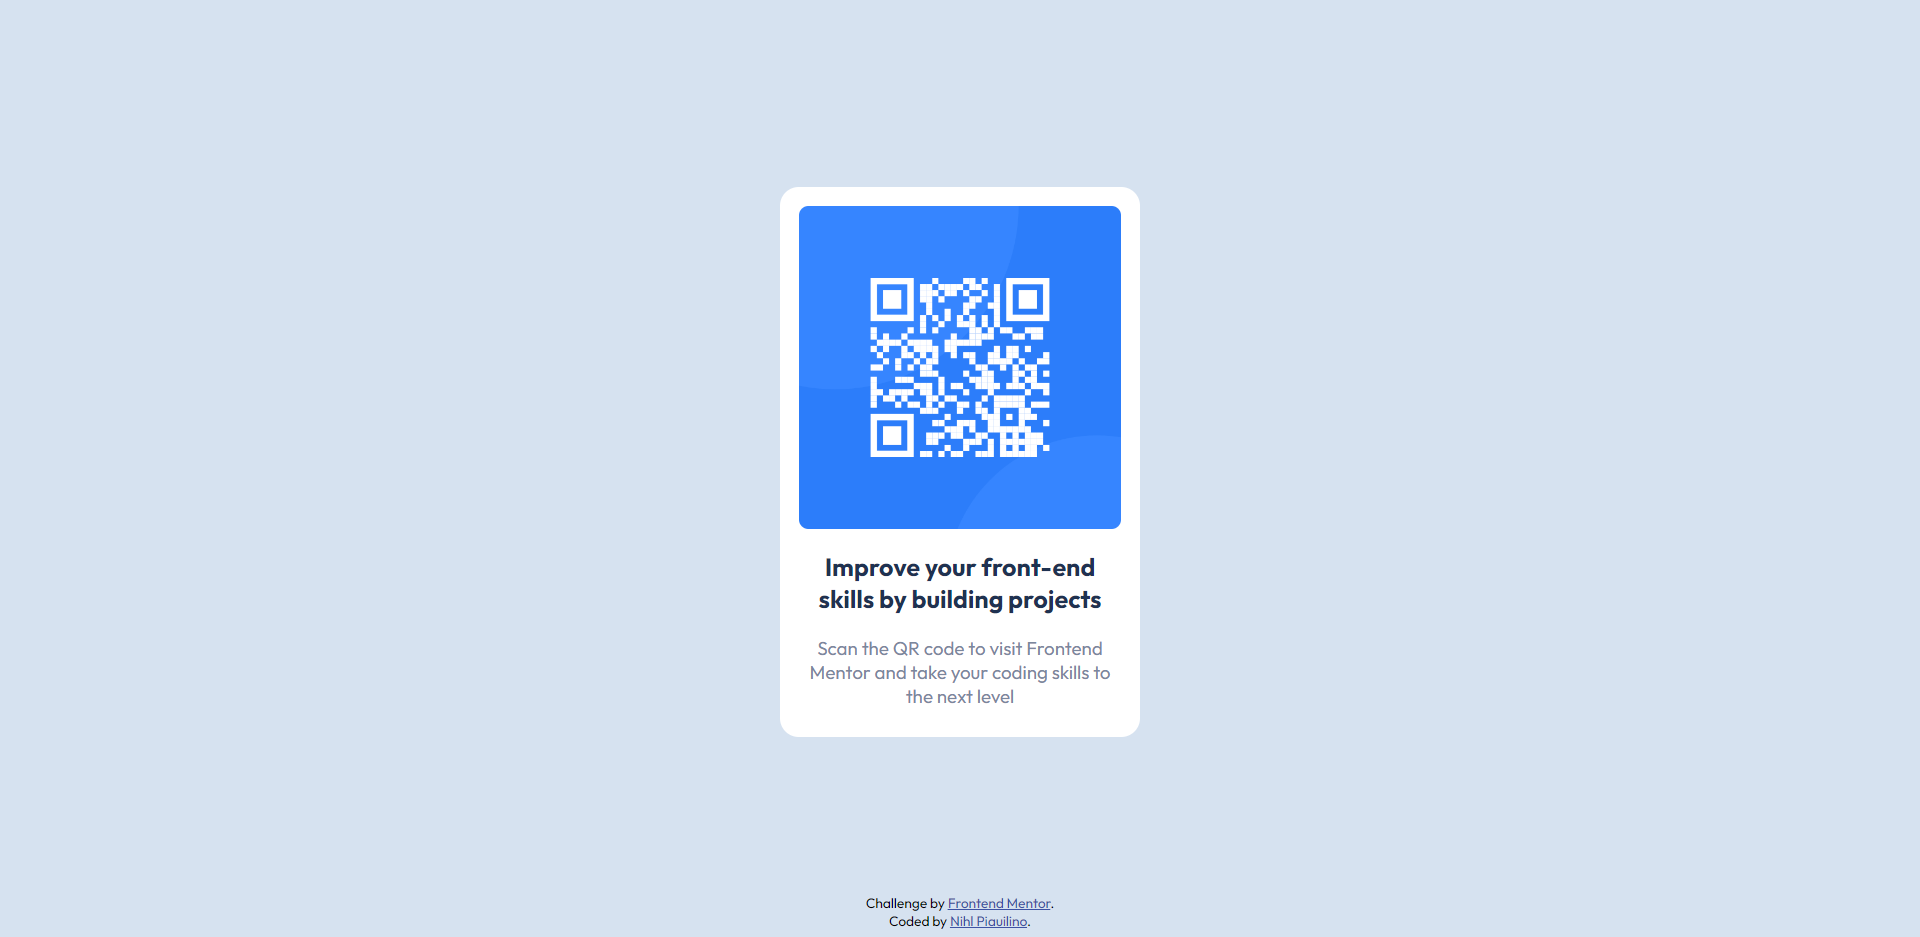
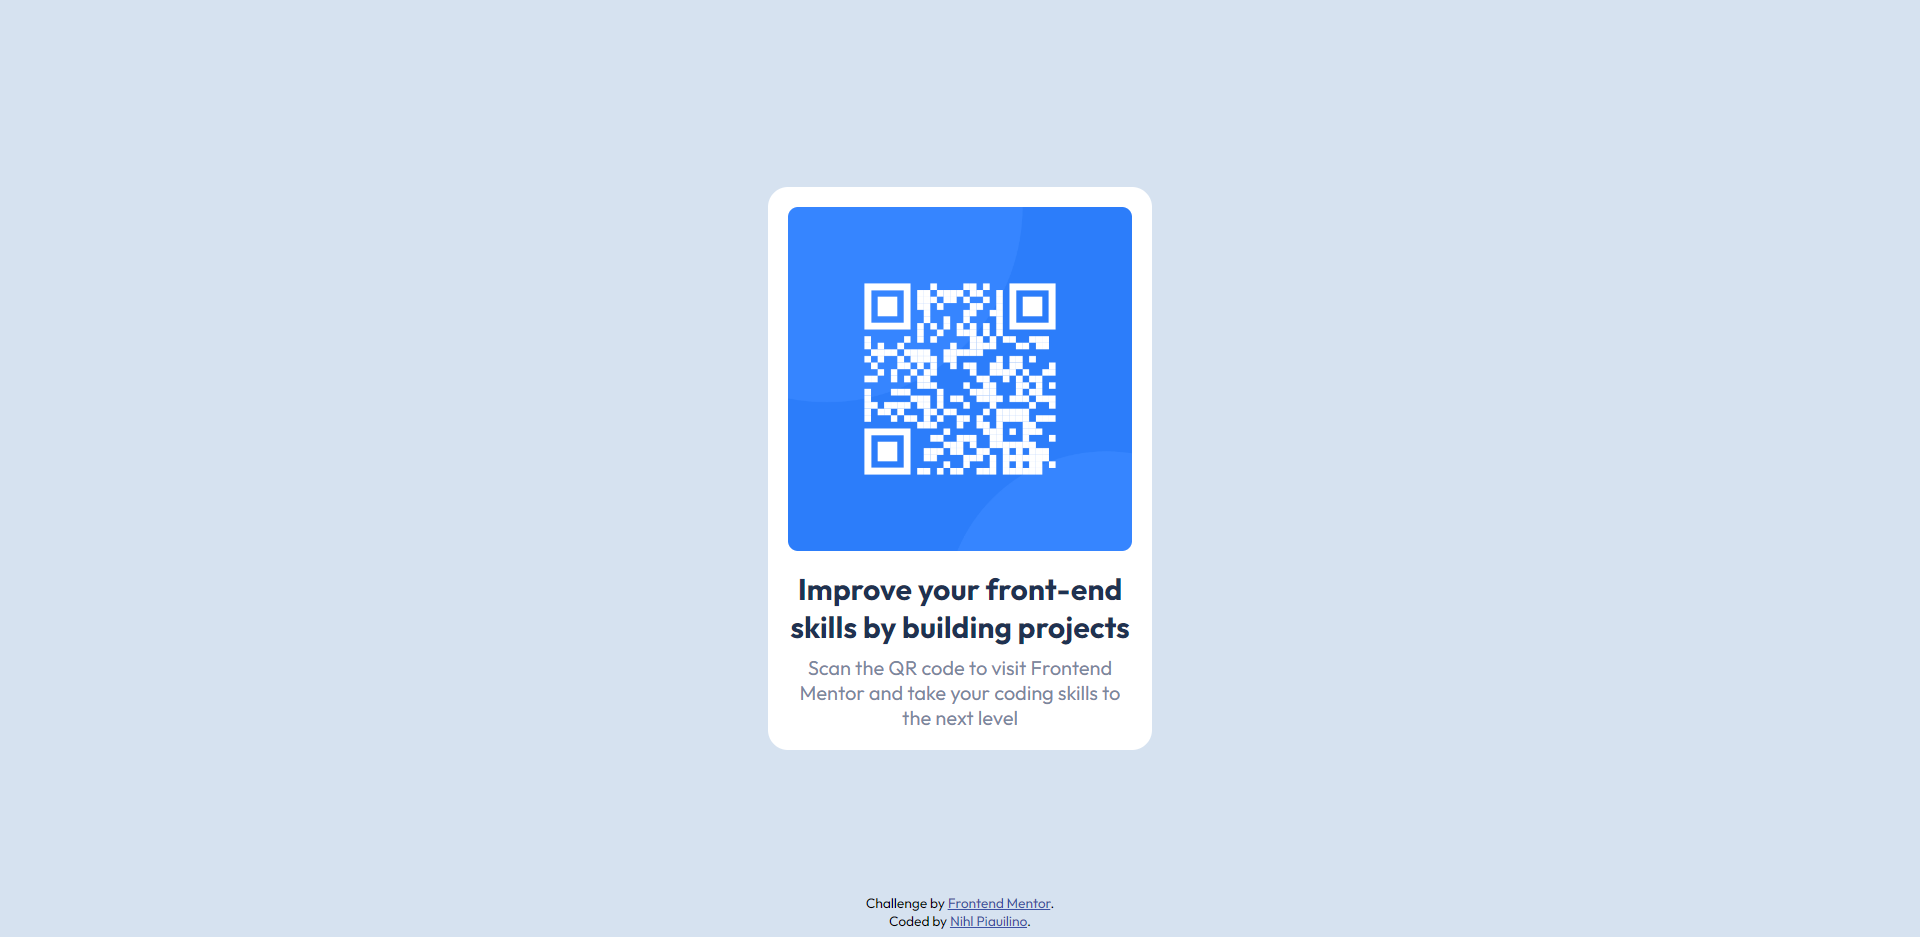
Minor improvements.

Changed region(s): [[0.375, 0.2166, 0.625, 0.8047]]

diff --git a/style.css b/style.css
@@ -9,7 +9,7 @@
 body {
     background-color: hsl(212, 45%, 89%);
     font-family: 'Outfit', sans-serif;
-    font-size: 15px;
+    font-size: 1em;
 }
 
 img {
@@ -18,11 +18,11 @@ img {
     max-width: 100%;
 }
 
-span {
+h1, span {
     text-align: center;
 }
 
-.attribution {
+footer {
     font-size: 11px;
     display: flex;
     flex-direction: column;
@@ -32,13 +32,13 @@ span {
     left: calc(50% - 100px);
 }
 
-.attribution a {
+footer a {
     color: hsl(228, 45%, 44%);
 }
 
-.bold-text {
+h1 {
     color: hsl(218, 44%, 22%);
-    font-size: 20px;
+    font-size: 1.5em;
     font-weight: 700;
 }
 
@@ -47,24 +47,25 @@ span {
     font-weight: 400;
 }
 
-.main {
+main {
     background-color: hsl(0, 0%, 100%);
     border-radius: 1em;
     display: flex;
     flex-direction: column;
+    justify-content: space-between;
     padding: 1em;
     position: absolute;
-    left: calc(50% - 144px);
-    top: 20%;
-    width: 288px;
+    left: calc(50% - 10vw);
+    top: calc(50% - 30vh);
+    height: 60vh;
+    width: 20vw;
 }
 
-.main span {
-    margin: 0.5em
-}
-
-@media screen and (max-width: 1440px) {
-    .main {
-        top: 10%;
+@media screen and (max-width: 768px) {
+    main {
+        left: calc(50% - 40vw);
+        top: calc(50% - 35vh);
+        height: 70vh;
+        width: 80vw;
     }
 }

diff --git a/index.html b/index.html
@@ -12,18 +12,18 @@
 </head>
 <body>
 
-  <div class="main">
+  <main>
     <img src="images/image-qr-code.png" alt="QR Code">
     
-    <span class="bold-text">Improve your front-end skills by building projects</span>
+    <h1>Improve your front-end skills by building projects</h1>
   
     <span class="light-text">Scan the QR code to visit Frontend Mentor and take your coding skills to the next level</span>
 
-  </div>
+  </main>
   
-  <div class="attribution">
+  <footer>
     <span>Challenge by <a href="https://www.frontendmentor.io?ref=challenge" target="_blank">Frontend Mentor</a>.</span>
     <span>Coded by <a href="https://github.com/nihl-piauilino">Nihl Piauilino</a>.</span>
-  </div>
+  </footer>
 </body>
 </html>
